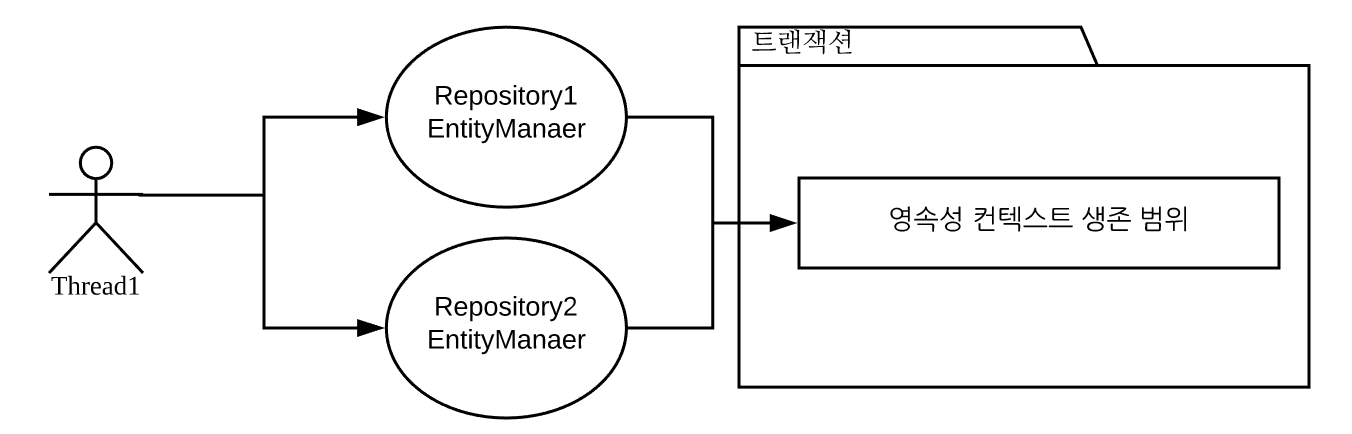
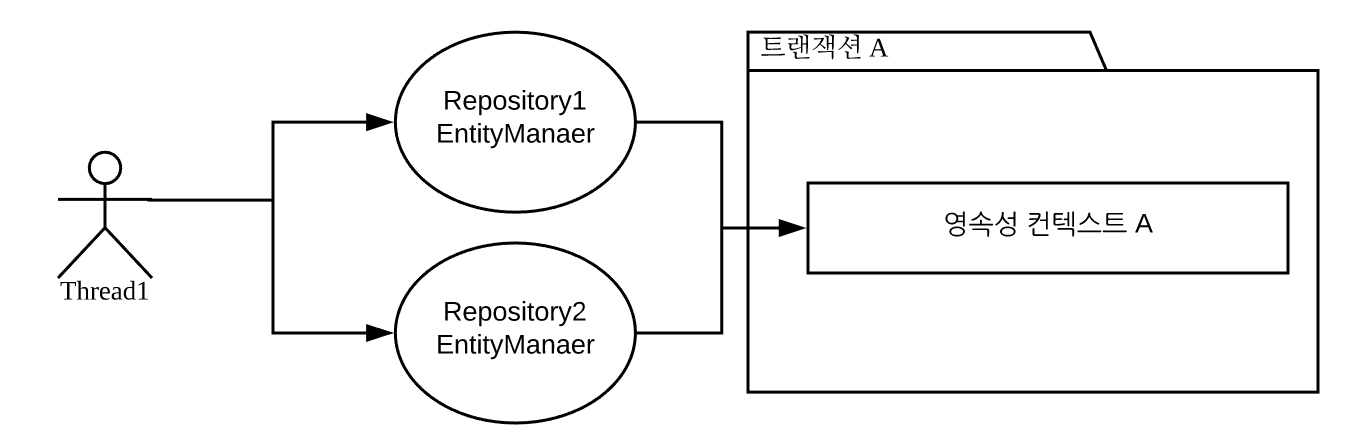
13장 - 실습위주로 해 보자.

Changed region(s): [[0.0311, 0.0599, 0.9941, 0.9885], [0.6524, 0.4793, 0.9009, 0.5392], [0.3107, 0.5392, 0.4349, 0.629]]

diff --git a/13/13_웹 애플리케이션과 영속성 관리.md b/13/13_웹 애플리케이션과 영속성 관리.md
@@ -57,6 +57,9 @@ public List<MemberEntity> findAll() {
 ![image](https://github.com/hanbroz/jpa/blob/master/13/images/img13_3.png)<br>
 트랜잭션이 같으면 같은 영속성 컨텍스트를 사용한다.
 
+![image](https://github.com/hanbroz/jpa/blob/master/13/images/img13_4.png)<br>
+트랜잭션이 다르면 다른 영속성 컨텍스트를 사용한다.
+
 
 
 
